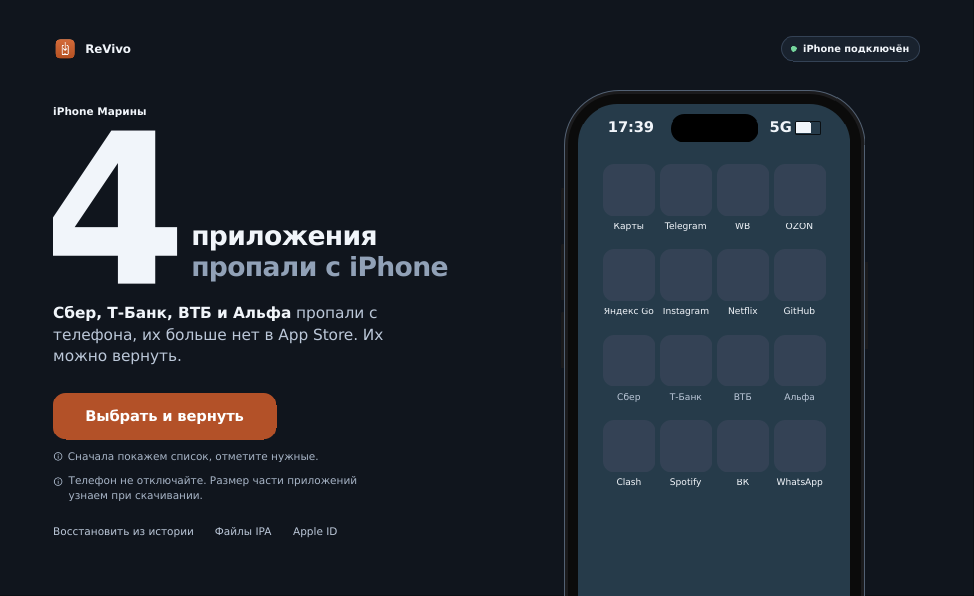
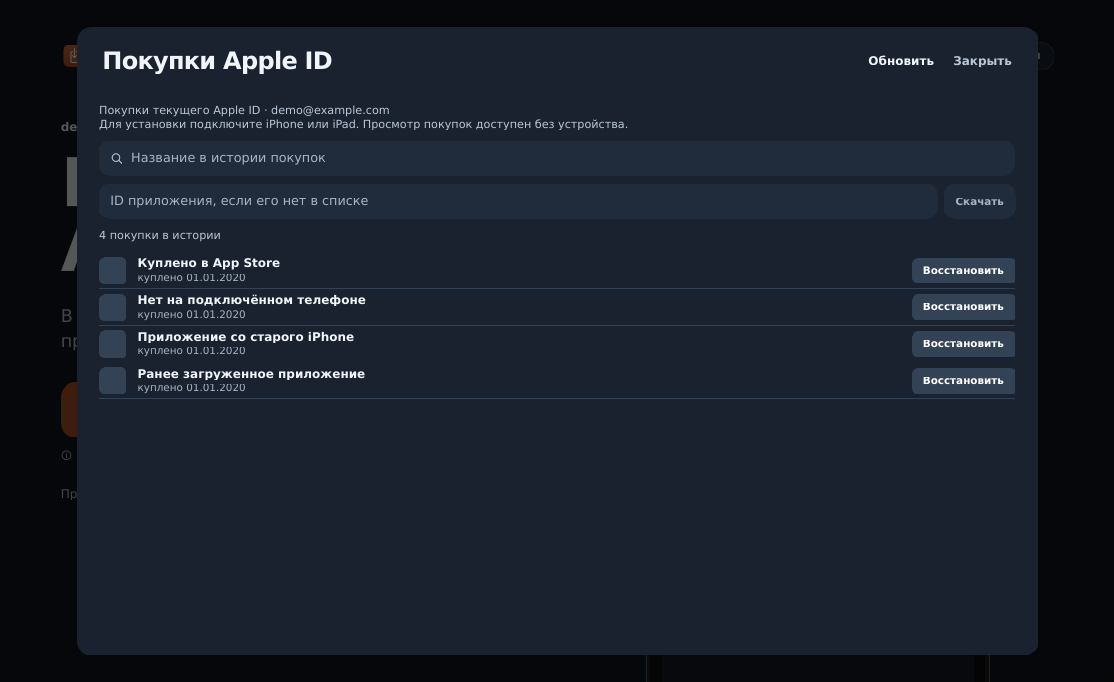
Restore from Apple ID purchases as the primary workflow
Open account purchase history on launch, without requiring a connected phone. Keep phone inventory in a separate mode, add explicit refresh and account scope, prevent installation without a device, and distinguish load errors from an empty account.

diff --git a/apprestore_gui/qml4b/components/HistorySheet.qml b/apprestore_gui/qml4b/components/HistorySheet.qml
@@ -31,24 +31,48 @@ Item {
             width: parent.width
             height: Theme.sheetHead
             T { x: 32; anchors.verticalCenter: parent.verticalCenter; token: "sheetTitle"; text: root.h.title || "" }
-            T {
+            Row {
                 anchors.right: parent.right
                 anchors.rightMargin: 32
                 anchors.verticalCenter: parent.verticalCenter
-                token: "sheetLink"
-                color: Theme.ink2
-                text: root.h.close || ""
-                Accessible.role: Accessible.Button
-                Accessible.name: text
-                MouseArea { anchors.fill: parent; anchors.margins: -8; cursorShape: Qt.PointingHandCursor; onClicked: ui.closeHistory() }
+                spacing: 24
+                T {
+                    objectName: "historyRefresh"
+                    token: "sheetLink"
+                    color: root.h.canRefresh ? Theme.ink : Theme.ink3Text
+                    text: "Обновить"
+                    Accessible.role: Accessible.Button
+                    Accessible.name: text
+                    MouseArea {
+                        anchors.fill: parent; anchors.margins: -8
+                        enabled: !!root.h.canRefresh
+                        cursorShape: enabled ? Qt.PointingHandCursor : Qt.ArrowCursor
+                        onClicked: ui.refreshHistory()
+                    }
+                }
+                T {
+                    token: "sheetLink"; color: Theme.ink2; text: root.h.close || ""
+                    Accessible.role: Accessible.Button
+                    Accessible.name: text
+                    MouseArea { anchors.fill: parent; anchors.margins: -8; cursorShape: Qt.PointingHandCursor; onClicked: ui.closeHistory() }
+                }
             }
             Rectangle { anchors.bottom: parent.bottom; width: parent.width; height: 1; color: Theme.line }
+        }
+
+        T {
+            id: scopeNote
+            x: Theme.listPadX; y: head.height + 12
+            width: parent.width - 2 * Theme.listPadX
+            token: "status"; color: Theme.ink2
+            wrapMode: Text.WordWrap
+            text: (root.h.scope || "") + ((root.h.deviceNote || "") !== "" ? "\n" + root.h.deviceNote : "")
         }
 
         Rectangle {
             id: sbox
             x: Theme.listPadX
-            y: head.height + 16
+            y: scopeNote.y + scopeNote.implicitHeight + 12
             width: parent.width - 2 * Theme.listPadX
             height: 44
             radius: Theme.radiusSearch
@@ -96,7 +120,7 @@ Item {
                 objectName: "historyStoreIdGo"
                 anchors.right: parent.right
                 anchors.verticalCenter: parent.verticalCenter
-                readonly property bool ready: idInput.text.trim().length > 0
+                readonly property bool ready: !!root.h.canRestore && idInput.text.trim().length > 0
                 width: idGoText.implicitWidth + 2 * Theme.rowButtonPadX
                 height: 44
                 radius: Theme.radiusSearch
@@ -233,15 +257,16 @@ Item {
                     width: btnText.implicitWidth + 2 * Theme.rowButtonPadX
                     height: Theme.rowButtonHeight
                     radius: Theme.rowButtonRadius
-                    color: btnMouse.pressed ? Theme.accentPressed : btnMouse.containsMouse ? Theme.accentHover : Theme.accent
+                    color: !r.enabled ? Theme.accentDisabled : btnMouse.pressed ? Theme.accentPressed : btnMouse.containsMouse ? Theme.accentHover : Theme.accent
                     Accessible.role: Accessible.Button
                     Accessible.name: (r.action || "") + " " + r.name
                     T { id: btnText; anchors.centerIn: parent; token: "seg"; color: Theme.inkOnAccent; text: r.action || "" }
                     MouseArea {
                         id: btnMouse
                         anchors.fill: parent
-                        hoverEnabled: true
-                        cursorShape: Qt.PointingHandCursor
+                        enabled: !!r.enabled
+                        hoverEnabled: enabled
+                        cursorShape: enabled ? Qt.PointingHandCursor : Qt.ArrowCursor
                         onClicked: ui.restoreFromHistory(r.storeId, r.name)
                     }
                 }

diff --git a/apprestore_gui/ui4b/qt_bridge.py b/apprestore_gui/ui4b/qt_bridge.py
@@ -769,9 +769,11 @@ class Restore4b(QObject):
 
     def __init__(self, source: SourceBase, *, onboarded: bool = True, mark_color: str = "#f6ebe4",
                  archive_search: bool = ARCHIVE_DEFAULT, update_check: Any = None,
-                 find_options: dict[str, Any] | None = None) -> None:
+                 find_options: dict[str, Any] | None = None, purchase_first: bool = False) -> None:
         super().__init__()
         self.source = source
+        self._purchase_first = purchase_first
+        self._device_mode = False
         self._archive_search = bool(archive_search)
         self._update_check = update_check
         self._settings_open = False
@@ -795,12 +797,13 @@ class Restore4b(QObject):
         self._files_open = False
         self._files_mode = "list"
         self._files_chosen: set[str] = set()
-        self._history_open = False
+        self._history_open = purchase_first
         self._history_query = ""
         self._history_id_note = ""
         self._history_account = ""
         self.flow = RestoreFlow(source, self._refresh)
         self.scan = ScanCounter()
+        onboarded = onboarded or purchase_first
         self.onboarding = Onboarding(started=onboarded, apple_id_skipped=onboarded, finished=onboarded)
         self._picker_open = False
         self._done_dismissed = False
@@ -943,6 +946,30 @@ class Restore4b(QObject):
                 component=bool(self._patches_missing),
             )
         )
+        if self._purchase_first and not self._device_mode and queue is None and not self.flow.store_problem:
+            signed = bool(src.signed_in and not src.relogin)
+            history = history_view(src.purchase_rows(), signed_in=signed)
+            session = getattr(src, "session", None)
+            busy = bool(getattr(session, "purchasesBusy", False))
+            count = len(history["rows"])
+            note = str(getattr(session, "purchasesNote", "") or "")
+            if not signed:
+                lead = "Войдите в Apple ID, с которого раньше загружали приложения. Телефон для просмотра покупок не требуется."
+            elif busy:
+                lead = "Загружаем покупки с серверов Apple…"
+            elif note:
+                lead = "Не удалось обновить покупки. Откройте список и повторите загрузку."
+            else:
+                lead = f"В истории аккаунта: {count}. Здесь доступны и приложения, которых нет на этом телефоне."
+            self._home.update(
+                state="purchases", over=src.account_email or "История Apple ID",
+                title="Покупки\nApple ID", number=0, word="", word2="", lead=lead,
+                cta="Открыть покупки" if signed else "Войти в Apple ID",
+                cta2="", hint="Выберите приложение из покупок. Подключение устройства нужно только для установки.",
+                fine="", steps=[], links=["Приложения на телефоне", "Файлы IPA", "Apple ID"],
+            )
+        elif self._purchase_first and self._device_mode:
+            self._home["links"] = ["Покупки Apple ID", *self._home.get("links", [])]
         self.picker.set_rows(self.selection.rows())
         self._revision += 1
         self.changed.emit()
@@ -1203,7 +1230,12 @@ class Restore4b(QObject):
         """The big button of the home screen."""
 
         state = str(self._home.get("state", ""))
-        if state == STATE_DONE:
+        if state == "purchases":
+            if self.source.signed_in and not self.source.relogin:
+                self.openHistory()
+            else:
+                self.openSignIn()
+        elif state == STATE_DONE:
             self.dismissDone()
         elif state in (STATE_STORE_MISMATCH, STATE_APPLE_REJECTED):
             self.flow.dismiss_store_problem()  # «На главный»
@@ -1434,6 +1466,14 @@ class Restore4b(QObject):
 
     @Slot(str)
     def link(self, name: str) -> None:
+        if name == "Приложения на телефоне":
+            self._device_mode = True
+            self._refresh()
+            return
+        if name == "Покупки Apple ID":
+            self._device_mode = False
+            self.openHistory()
+            return
         action = link_action(name)
         if action == "stop":
             self.stop()
@@ -1488,9 +1528,16 @@ class Restore4b(QObject):
             failed=failed,
             query=self._history_query,
             id_note=self._history_id_note,
+            error_note=note,
         )
         view["open"] = self._history_open
         view["query"] = self._history_query
+        view["scope"] = "Покупки текущего Apple ID · " + str(self.source.account_email or "")
+        view["canRefresh"] = bool(self.source.signed_in and not busy)
+        view["canRestore"] = bool(self.source.connected and self.source.signed_in and not self.source.relogin)
+        view["deviceNote"] = "" if self.source.connected else "Для установки подключите iPhone или iPad. Просмотр покупок доступен без устройства."
+        for row in view["rows"]:
+            row["enabled"] = view["canRestore"]
         return view
 
     @Slot()
@@ -1498,6 +1545,11 @@ class Restore4b(QObject):
         self._history_open = True
         self._history_query = ""
         self._history_id_note = ""
+        self._load_history(force=True)
+        self._refresh()
+
+    @Slot()
+    def refreshHistory(self) -> None:
         self._load_history(force=True)
         self._refresh()
 
@@ -1516,6 +1568,13 @@ class Restore4b(QObject):
     @Slot(str, str)
     def restoreFromHistory(self, store_id: str, name: str) -> None:
         if self.flow.running or not str(store_id or "").strip():
+            return
+        if not self.source.connected:
+            self._history_id_note = "Подключите iPhone или iPad для установки из покупок."
+            self._refresh()
+            return
+        if not self.source.signed_in or self.source.relogin:
+            self.openSignIn()
             return
         self._history_open = False
         self._history_query = ""

diff --git a/tests/test_purchase_first.py b/tests/test_purchase_first.py
@@ -1,0 +1,105 @@
+"""The product opens account purchases, never a phone-derived substitute."""
+from types import SimpleNamespace
+from unittest.mock import Mock
+
+import pytest
+
+pytest.importorskip("PySide6")
+from PySide6.QtWidgets import QApplication
+from apprestore_gui.ui4b.fake_data import FakeSource
+from apprestore_gui.ui4b.qt_bridge import Restore4b
+from apprestore_gui.ui4b.history import history_view, FAILED
+
+
+@pytest.fixture(scope="module")
+def qapp():
+    return QApplication.instance() or QApplication([])
+
+
+def source_with_purchases():
+    source = FakeSource("missing")  # device has its own, different list
+    source.connected = False
+    source.signed_in = True
+    source.auth_phase = "in"
+    source.account_email = "owner@example.com"
+    source.purchase_rows = lambda: [
+        {"trackId": "492224193", "name": "Куплено на старом iPhone", "date": "2021-01-01"},
+        {"trackId": "111222333", "name": "Никогда не было на этом телефоне", "date": "2020-01-01"},
+    ]
+    source.session = SimpleNamespace(purchasesBusy=False, purchasesNote="", loadPurchases=Mock())
+    return source
+
+
+def test_product_opens_all_account_purchases_without_a_phone(qapp):
+    source = source_with_purchases()
+    controller = Restore4b(source, onboarded=False, purchase_first=True)
+    assert controller.screen == "home"  # no mandatory connect-phone onboarding
+    assert controller.history["open"]
+    assert {r["storeId"] for r in controller.history["rows"]} == {"492224193", "111222333"}
+    assert controller.history["scope"].endswith("owner@example.com")
+    assert not controller.history["canRestore"]
+    assert all(not r["enabled"] for r in controller.history["rows"])
+    source.session.loadPurchases.assert_called_once()
+    controller.refreshHistory()
+    assert source.session.loadPurchases.call_count == 2
+
+
+def test_close_history_keeps_purchases_as_primary_action(qapp):
+    source = source_with_purchases()
+    controller = Restore4b(source, purchase_first=True)
+    controller.closeHistory()
+    assert controller.home["state"] == "purchases"
+    assert controller.home["cta"] == "Открыть покупки"
+    controller.primaryAction()
+    assert controller.history["open"]
+    controller.closeHistory()
+    controller.link("Приложения на телефоне")
+    assert controller.home["state"] != "purchases"
+    controller.link("Покупки Apple ID")
+    assert controller.history["open"]
+
+
+def test_install_requires_device_but_keeps_history_and_uses_selected_purchase(qapp, monkeypatch):
+    source = source_with_purchases()
+    controller = Restore4b(source, purchase_first=True)
+    install = Mock()
+    monkeypatch.setattr(controller, "installFound", install)
+    controller.restoreFromHistory("111222333", "Старое приложение")
+    assert controller.history["open"] and controller.history["idNote"]
+    install.assert_not_called()
+    source.connected = True
+    source.changed.emit()
+    assert controller.history["canRestore"]
+    controller.restoreFromHistory("111222333", "Старое приложение")
+    install.assert_called_once_with("111222333", "Старое приложение")
+
+
+def test_failed_purchase_request_is_not_presented_as_empty_account():
+    view = history_view([], signed_in=True, failed=True, error_note="Нет связи с Apple")
+    assert view["empty"] == FAILED
+    assert "нет покупок" not in view["empty"].lower()
+    assert view["lead"] == "Нет связи с Apple"
+
+
+def test_signed_out_purchase_landing_does_not_expose_previous_rows(qapp):
+    source = source_with_purchases()
+    source.signed_in = False
+    controller = Restore4b(source, onboarded=False, purchase_first=True)
+    assert controller.history["rows"] == []
+    controller.closeHistory()
+    assert controller.home["cta"] == "Войти в Apple ID"
+
+
+def test_purchase_first_qml_loads_without_warnings(qapp):
+    from tests.test_ui4b_qml import open_window
+    from PySide6.QtQuick import QQuickItem
+    controller = Restore4b(source_with_purchases(), onboarded=False, purchase_first=True)
+    engine, icons, warnings = open_window(qapp, controller)
+    window = engine.rootObjects()[0]
+    listing = window.findChild(QQuickItem, "historyList")
+    assert listing is not None and listing.property("count") == 2
+    assert window.findChild(QQuickItem, "historyRefresh") is not None
+    window.close()
+    del window, engine
+    qapp.processEvents()
+    assert warnings == []

diff --git a/apprestore_gui/ui4b/history.py b/apprestore_gui/ui4b/history.py
@@ -9,7 +9,7 @@ from __future__ import annotations
 
 import re
 
-TITLE = "Восстановить из истории"
+TITLE = "Покупки Apple ID"
 CLOSE = "Закрыть"
 ACTION = "Восстановить"
 PLACEHOLDER = "Название в истории покупок"
@@ -145,6 +145,7 @@ def history_view(
     failed: bool = False,
     query: str = "",
     id_note: str = "",
+    error_note: str = "",
 ) -> dict[str, object]:
     """The sheet. Unsigned: no rows from a previous account."""
 
@@ -153,6 +154,8 @@ def history_view(
         empty, empty_link = SIGNIN_TEXT, SIGNIN_LINK
     elif busy and not rows:
         empty, empty_link = "", ""
+    elif failed and not rows:
+        empty, empty_link = FAILED, ""
     elif query.strip() and not rows:
         empty, empty_link = NO_MATCH, ""
     elif not rows:
@@ -169,7 +172,7 @@ def history_view(
     elif failed and count:
         lead = f"{FAILED} Показано сохранённое: {count}."
     elif failed:
-        lead = FAILED
+        lead = error_note or FAILED
     elif query.strip() and count:
         lead = f"Найдено {count}"
     elif count:

diff --git a/tests/test_ui4b_history.py b/tests/test_ui4b_history.py
@@ -110,4 +110,4 @@ def test_signed_in_history_offers_an_id_download() -> None:
 def test_history_says_when_the_account_has_none() -> None:
     view = history_view([], signed_in=True)
     assert view["empty"].startswith("В этом Apple ID")
-    assert view["title"] == "Восстановить из истории"
+    assert view["title"] == "Покупки Apple ID"

diff --git a/apprestore_gui/ui4b/window.py b/apprestore_gui/ui4b/window.py
@@ -43,6 +43,7 @@ def build(settings: QSettings) -> tuple[QQmlApplicationEngine | None, list[Any]]
         source,
         onboarded=bool(settings.value(ONBOARDED_KEY, False, type=bool)),
         archive_search=False,
+        purchase_first=True,
     )
 
     def remember_onboarding() -> None:

diff --git a/README.md b/README.md
@@ -32,6 +32,14 @@ Apple Mobile Device / Apple Devices, на macOS — доверие к компь
 перетаскиванием в Программы. Ключи Apple для создания образа не требуются;
 [предупреждение Gatekeeper и первый запуск](docs/REVIVO-MACOS-DMG-RU.md).
 
+## Восстановление из покупок Apple ID
+
+При запуске сразу открываются **Покупки Apple ID** — список из истории аккаунта
+через `ipatool list-purchases --all`, включая доступные покупки с прежних устройств.
+Подключение телефона для просмотра не требуется. Войдите в нужный Apple ID,
+нажмите «Обновить», найдите приложение и подключите iPhone/iPad для установки.
+Раздел «Приложения на телефоне» доступен отдельно и не определяет историю покупок.
+
 ## Что умеет
 
 - Находит подключённые устройства и сгруженные приложения.
